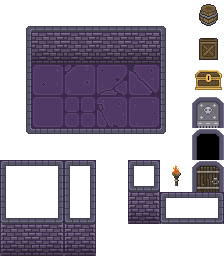
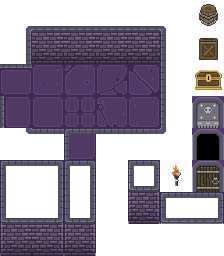
Colisões, portas e chão
Finalização das colisões sem bugs, portas funcionando baseadas na contagem dos minigames

diff --git a/mapas.h b/mapas.h
@@ -4,6 +4,7 @@ int** geraMapas(int mapa);
 void loadMap();
 void limparMapas(int** mapa);
 void trocarMapas(mapa* ptr);
+void colisao(mapa* ptr, int mapa, int minigameAtual);
 
 // Declaração da altura e largura fixas com o padrão 32bits
 const int altura = 15;
@@ -127,42 +128,119 @@ void limparMapas(int** mapa) {
       free(mapa);
 }
 
-/*bool colisao(mapa* ptr) {
-    int aux = (ptr->pos_x / 32);
-    int auy = (ptr->pos_y / 32);
-
-    int valU = 67;
-    int valD = 67;
-    int valL = 67;
-    int valR = 67;
-
-    if (ptr->pos_y > 32 && ptr->pos_y < height - 32 && auy < 14 && aux < 19) {
-        valU = ptr->map[auy][aux];
-        valD = ptr->map[auy + 1][aux];
-    }
-    if (ptr->pos_x > 32 && ptr->pos_x < width - 32 && auy < 15 && aux < 20) {
-        valL = ptr->map[auy][aux];
-        valR = ptr->map[auy][aux + 1];
-    }
-
-    if (valU != 67 && direcao == UP) {
-        // UP
-        ptr->pos_y += velocidade;
-    }
-    if (valD != 67 && direcao == DOWN) {
-        // DOWN
-        ptr->pos_y -= velocidade;
-    }
-    if (valL != 67 && direcao == LEFT) {
-        // LEFT
-        ptr->pos_x += velocidade;
-    }
-    if (valR != 67 && direcao == RIGHT) {
-        // RIGHT
-        ptr->pos_x -= velocidade;
-    }
-
-    if (ptr->escolhaMapa == 4 && ptr->pos_y == 320 && ptr->pos_x == 224) {
-        ptr->done = true;
-    }
-}*/
+void colisao(mapa* ptr, int mapa, int minigameAtual) {
+	// ------ Colisão ------
+	// ------ MAPA  1 ------
+	if (ptr->escolhaMapa == 1) {
+		// Parede direita
+		if (ptr->pos_y <= 280) {
+			ptr->pos_x = min(480, ptr->pos_x);
+		}
+		// Parede esquerda
+		ptr->pos_x = max(96, ptr->pos_x);
+		// Parede superior e inferior
+		ptr->pos_y = max(96, min(352, ptr->pos_y));
+		// Parede superior corredor
+		if (ptr->pos_x >= 484) {
+			ptr->pos_y = max(288, ptr->pos_y);
+		}
+	}
+	// ------ MAPA  2 ------
+	else if (ptr->escolhaMapa == 2) {
+		// Parede direita
+		ptr->pos_x = min(512, ptr->pos_x);
+		// Parede esquerda corredor
+		if (ptr->pos_y >= 358) {
+			ptr->pos_x = max(448, ptr->pos_x);
+		}
+		// Parede superior
+		ptr->pos_y = max(96, ptr->pos_y);
+		if (ptr->pos_x != 96 && ptr->pos_y >= 288 && ptr->pos_y <= 288) {
+			ptr->pos_y = max(32 * 9, ptr->pos_y);
+		}
+		// Parede inferior
+		if (ptr->pos_x < 448) {
+			ptr->pos_y = min(352, ptr->pos_y);
+		}
+		// Parede superior portas e atualizações
+		switch (minigameAtual)
+		{
+		case 0:
+			ptr->map[8][3] = 64;
+			if (ptr->pos_x != 96) {
+				ptr->pos_y = max(288, ptr->pos_y);
+			}
+			else {
+				// DIALOGO PORTA FECHADA
+			}
+			break;
+		case 1:
+			ptr->map[8][8] = 64;
+			if (ptr->pos_x != 256) {
+				ptr->pos_y = max(288, ptr->pos_y);
+			}
+			else {
+				// DIALOGO PORTA FECHADA
+			}
+			break;
+		case 2:
+			ptr->map[8][13] = 64;
+			if (ptr->pos_x != 416) {
+				ptr->pos_y = max(288, ptr->pos_y);
+			}
+			else {
+				// DIALOGO PORTA FECHADA
+			}
+			break;
+		default:
+			break;
+		}
+	}
+	// ------ MAPA  3 ------
+	else if (ptr->escolhaMapa == 3) {
+		// Parede Esquerda e direita principais
+		if (ptr->pos_y < 10 * 32 - 4) {
+			ptr->pos_x = max(5 * 32, min(16 * 32, ptr->pos_x));
+		}
+		// Parede Superior e inferior principais
+		if (ptr->pos_x < 14 * 32 - 4) {
+			ptr->pos_y = max(4 * 32, min(12 * 32, ptr->pos_y));
+		}
+		// Parede superior corredor esquerda
+		if (ptr->pos_x < 5 * 32) {
+			ptr->pos_y = max(10 * 32, ptr->pos_y);
+		}
+		// Parede esquerda corredor BOSS
+		if (ptr->pos_y < 4 * 32) {
+			ptr->pos_x = max(14 * 32, ptr->pos_x);
+		}
+		// Parede Superior BOSS
+		if (ptr->pos_x > 9 * 32 + 4) {
+			ptr->pos_y = min(7 * 32, ptr->pos_y);
+		}
+		// Parede Direita BOSS
+		if (ptr->pos_y > 7 * 32) {
+			ptr->pos_x = min(9 * 32, ptr->pos_x);
+		}
+	}
+	// ------ MAPA  4 ------
+	else if (ptr->escolhaMapa == 4) {
+		// Parede direita
+		if (ptr->pos_y <= 32 * 10 - 6) {
+			ptr->pos_x = min(17 * 32, ptr->pos_x);
+		}
+		// Parede esquerda
+		if (ptr->pos_y != 160) {
+			ptr->pos_x = max(32 * 8, ptr->pos_x);
+		}
+		// Parede superior e inferior
+		ptr->pos_y = max(96, min(12 * 32, ptr->pos_y));
+		// Parede superior corredor
+		if (ptr->pos_x >= 18 * 32 - 24) {
+			ptr->pos_y = max(320, ptr->pos_y);
+		}
+		if (ptr->pos_x == 32 * 7 && ptr->pos_y == 32 * 5) {
+			ptr->done = true;
+		}
+	}
+}
